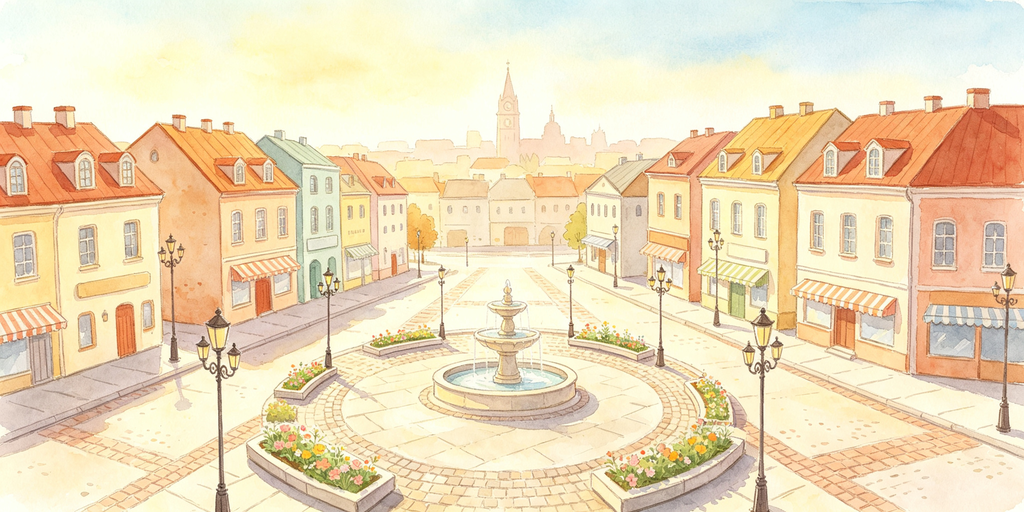
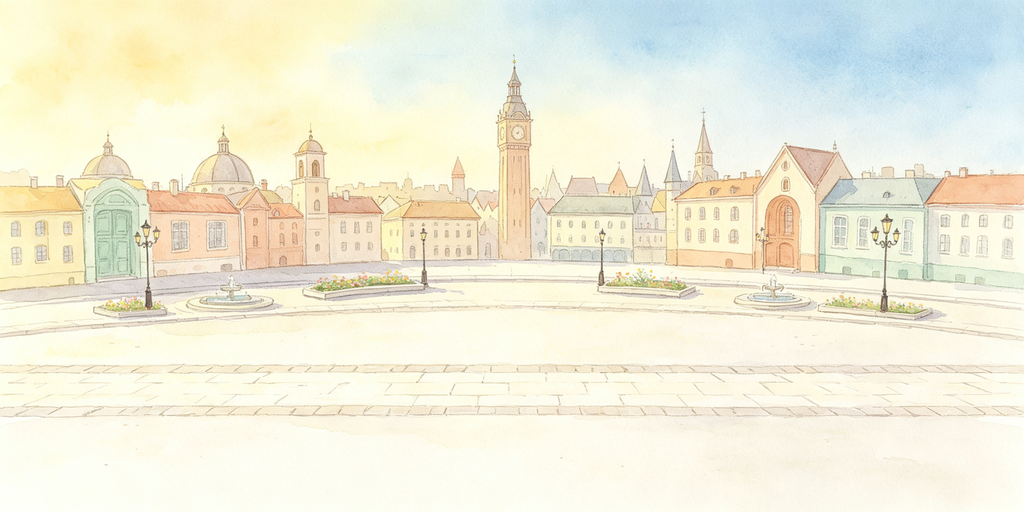
成本体系重构+前置条件始终显示+市中心背景重画
- 成本体系: 元素成本固定(不随区域), 金币=基准金币×区域系数
  基准金币: hut10/manor40/hospital15(其余用现值), 已与用户确认
  不同区域地皮构建显示不同金币成本, 净资产/拆除自动一致
- 前置条件始终显示: 无条件✓无需前置/满足✓前置已满足(绿)/
  不满足🔒需要XX(红), 市政厅列全部7类, 中英双语
- 市中心背景重画: 前景三条留白街道带(y20/50/80)+行间装饰,
  仅远景欧式天际线+钟楼, 12建筑位落纯地面, 升缓存v20260905

diff --git a/index.html b/index.html
@@ -144,6 +144,8 @@
   .shopItem:hover{border-color:var(--accent); transform:translateY(-1px);}
   .shopItem .top{display:flex; align-items:center; gap:8px; margin-bottom:6px;}
   .buildLockNote{color:var(--dim);font-size:11px;margin-bottom:6px;padding:4px 8px;background:var(--panel);border-radius:6px;line-height:1.4;}
+  .buildLockNote.ok{color:#4cd97b;border:1px solid #4cd97b55;background:#4cd97b14;}
+  .buildLockNote.need{color:#ff6b6b;border:1px solid #ff6b6b55;background:#ff6b6b14;}
   .shopItem .ico{font-size:26px;}
   .shopItem .nm{font-weight:600; font-size:14px;}
   .shopItem .built{margin-left:auto; font-size:11px; color:var(--dim); text-align:right; line-height:1.3;}
@@ -1223,10 +1225,19 @@ const totalBuildings = () => Object.values(S.buildings||{}).reduce((a,b)=>a+(b||
 const mapUnlocked = () => totalBuildings()>=2;
 let curRegion = "plain";
 // 区域化成本：单项向上取整
+// 基准金币：元素成本固定，金币随区域系数变化；无金币建筑给基准值
+const BASE_COIN = {hut:10, manor:40, hospital:15};
 function regionCost(b, region){
   const r=regionOf(region);
   const c={};
-  Object.entries(b.cost).forEach(([k,v])=>{ c[k]=Math.ceil(v*r.cm); });
+  // 元素部分：固定标准值（不随区域变化）
+  Object.entries(b.cost).forEach(([k,v])=>{
+    if(k==="coin") return;
+    c[k]=v;
+  });
+  // 金币部分：基准金币 × 区域系数
+  const baseCoin = b.cost.coin || BASE_COIN[b.id] || 0;
+  if(baseCoin>0) c.coin = Math.round(baseCoin*r.cm);
   return c;
 }
 // 某建筑总产出/10s（跨区域汇总；无分区记录的旧建筑按系数 1 计）
@@ -1439,6 +1450,8 @@ const I18N = {
     "town.placeDone":"✅ 建筑已摆放！",
     "town.freeArrangeLocked":"🔒 获得「地产大亨」徽章后可自由摆放建筑",
     "town.mapTitle":"小镇",
+    "town.noPrereq":"✓ 无需前置",
+    "town.prereqMet":"✓ 前置已满足",
     "town.freeMoveMode":"🖐 自由摆放：点地图新位置放置，或",
     "town.freeMoveHint":"🖐 自由摆放：点击地图新位置放置建筑",
     "town.resetLayout":"↩ 恢复默认布局",
@@ -1613,6 +1626,8 @@ const I18N = {
     "town.moveMode":"🏗 Move mode: tap a 🟫 empty land to move, or",
     "town.selectedPlot":"📍 Selected {0}{1} empty land, choose building below, or",
     "town.mapTitle":"My Town",
+    "town.noPrereq":"✓ No prerequisite",
+    "town.prereqMet":"✓ Prerequisite met",
     "town.freeMoveMode":"🖐 Free arrange: tap a map spot to place, or",
     "town.freeMoveHint":"🖐 Free arrange: tap a map spot to place the building",
     "town.resetLayout":"↩ Reset layout",
@@ -4731,7 +4746,7 @@ function renderMap(){
     tile.className="tile";
     tile.style.cssText=`grid-area:${r.area};`;
     const ti=assetCache.get("regions:"+r.id);
-    const defaultBg=`assets/regions/${r.id}.png?v=${r.id==="center"?"20260904":"20260902"}`;
+    const defaultBg=`assets/regions/${r.id}.png?v=${r.id==="center"?"20260905":"20260902"}`;
     const plots=S.plots[r.id]||[];
     const _mobMap=window.innerWidth<=860||isTouchDevice();
     const bldSize=Math.round((r.plots<=6?42:r.plots<=8?38:32)*(_mobMap?1.5:2));
@@ -4915,7 +4930,9 @@ function renderShop(){
       ?(LANG==="en"?`🔒 ${regName(r)} only allows 🏭Factory`:`🔒 ${regName(r)}只能建造🏭工厂`)
       :(LANG==="en"?`🔒 ${b.i}${bldName(b)} can only be built in ${r.i}${regName(r)}`:`🔒 ${b.i}${bldName(b)}只能建在${r.i}${regName(r)}`)):"";
     const canBuild=canAfford(cost)&&(selectedPlot||!mapUnlocked())&&!hallFull&&unlocked&&placeOk;
-    const lockNote=!unlocked?`<div class="buildLockNote">🔒 ${buildingLockHint(b)}</div>`:"";
+    const lockNote=`<div class="buildLockNote ${unlocked?'ok':'need'}">${unlocked
+      ? (b.id==="hut"||b.id==="shop" ? t("town.noPrereq") : t("town.prereqMet"))
+      : `🔒 ${buildingLockHint(b)}`}</div>`;
     const placeLockNote=!placeOk?`<div class="buildLockNote">${placeNote}</div>`:"";
     const hallNote=hallFull?`<span style="color:var(--dim);font-size:11px">${LANG==="en"?"(Max 2 City Halls)":"(最多2个市政厅)"}</span>`:b.id==="hall"&&(S.buildings.hall||0)===1?`<span style="color:var(--gold);font-size:11px">${LANG==="en"?"(2nd: ×1.5 cost)":"(第二个成本×1.5)"}</span>`:"";
     const bldImg=assetCache.get("buildings:"+b.id)||`assets/buildings/${b.id}.png?v=20260904`;
